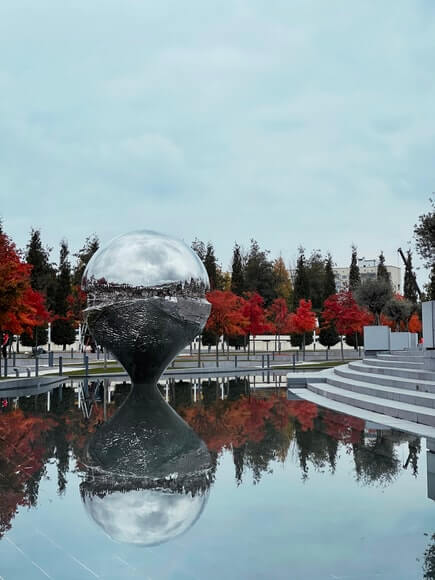
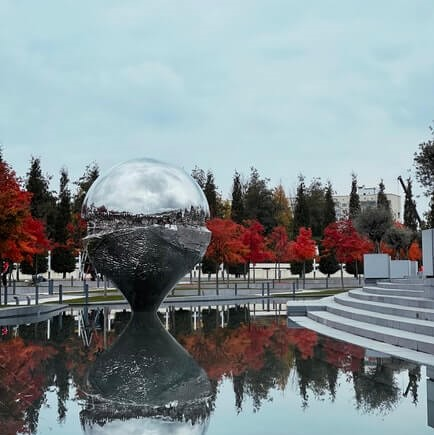
fix: добавить адаптивность для grid

diff --git a/blocks/elements/elements.css b/blocks/elements/elements.css
@@ -1,6 +1,6 @@
 .elements {
   display: grid;
-  grid-template-columns: 282px 282px 282px;
+  grid-template-columns: repeat(3, 1fr);
   grid-template-rows: auto;
   gap: 20px 17px;
   margin: 50px 200px 0;

diff --git a/blocks/element/__image/element__image.css b/blocks/element/__image/element__image.css
@@ -1,5 +1,5 @@
 .element__image {
-    width: 282px;
-    height: 282px;
+    max-width: 100%;
+    max-height: 100%;
     object-fit: cover;
 }
